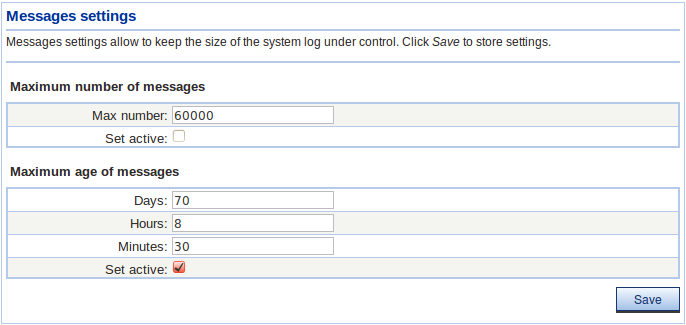
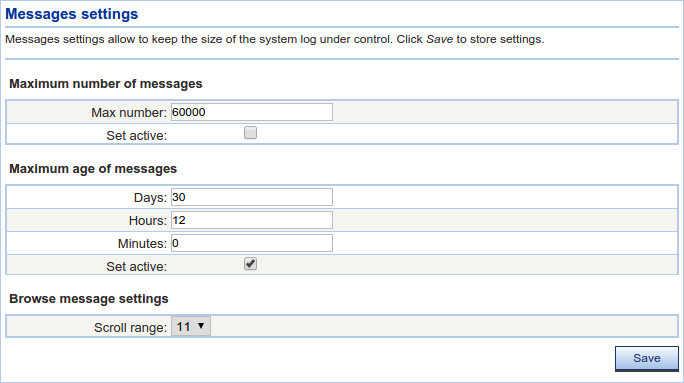
Ticket 393: Browsing more than 1000 pages of system messages difficult

Changed region(s): [[0.0, 0.0, 1.0, 1.0]]

diff --git a/src/java/eu/baltrad/dex/log/controller/BrowseMessagesController.java b/src/java/eu/baltrad/dex/log/controller/BrowseMessagesController.java
@@ -21,6 +21,8 @@
 
 package eu.baltrad.dex.log.controller;
 
+import eu.baltrad.dex.config.manager.impl.ConfigurationManager;
+import eu.baltrad.dex.config.model.LogConfiguration;
 import eu.baltrad.dex.log.manager.impl.LogManager;
 import eu.baltrad.dex.log.model.impl.LogEntry;
 import eu.baltrad.dex.log.model.impl.LogParameter;
@@ -51,6 +53,7 @@ public class BrowseMessagesController {
     public final static int ENTRIES_PER_PAGE = 20;
     /** Number of pages in the scroll bar, must be an odd number >= 3 */
     public final static int SCROLL_RANGE = 11;
+    
     /** Drop down lists */ 
     private static final String[] LEVELS = {"INFO", "WARN", "ERROR"};
     private static final String[] LOGGERS = {"DEX", "BEAST", "PGF"};
@@ -66,6 +69,7 @@ public class BrowseMessagesController {
     private static final String CURRENT_PAGE_KEY = "current_page";
     
     private LogManager logManager;
+    private ConfigurationManager configManager;
     
     /** Current page number */
     private static int currentPage;
@@ -240,28 +244,41 @@ public class BrowseMessagesController {
         if ((numPages * ENTRIES_PER_PAGE) < numEntries) {
             ++numPages;
         }
+        int scrollRange = getMessageBrowserScrollRange();
         if (numPages < 1) {
             numPages = 1;
         }
         int curPage = getCurrentPage();
-        int scrollStart = (SCROLL_RANGE - 1) / 2;
+        int scrollStart = (scrollRange - 1) / 2;
         int firstPage = 1;
-        int lastPage = SCROLL_RANGE;
-        if (numPages <= SCROLL_RANGE && curPage <= SCROLL_RANGE) {
+        int lastPage = scrollRange;
+        if (numPages <= scrollRange && curPage <= scrollRange) {
             firstPage = 1;
             lastPage = numPages;
         }
-        if (numPages > SCROLL_RANGE && curPage > scrollStart 
+        if (numPages > scrollRange && curPage > scrollStart 
                 && curPage < numPages - scrollStart) {
             firstPage = curPage - scrollStart;
             lastPage = curPage + scrollStart;
         }
-        if (numPages > SCROLL_RANGE && curPage > scrollStart 
-                && curPage >= numPages - (SCROLL_RANGE - 1)) {
-            firstPage = numPages - (SCROLL_RANGE - 1);
+        if (numPages > scrollRange && curPage > scrollStart 
+                && curPage >= numPages - (scrollRange - 1)) {
+            firstPage = numPages - (scrollRange - 1);
             lastPage = numPages;
         }
         return new int[] {firstPage, lastPage, curPage};
+    }
+    
+    public int getMessageBrowserScrollRange() {
+      LogConfiguration conf = configManager.getLogConf();
+      if (conf != null) {
+        try {
+          return Integer.parseInt(conf.getMessageBrowserScrollRange());
+        } catch (Exception e) {
+          // pass
+        }
+      }
+      return SCROLL_RANGE;
     }
     
     /**
@@ -333,4 +350,11 @@ public class BrowseMessagesController {
         this.logManager = logManager;
     }
     
+    /**
+     * @param configManager the configManager to set
+     */
+    @Autowired
+    public void setConfigManager(ConfigurationManager configManager) {
+        this.configManager = configManager;
+    }
 }

diff --git a/src/java/eu/baltrad/dex/config/model/LogConfiguration.java b/src/java/eu/baltrad/dex/config/model/LogConfiguration.java
@@ -38,7 +38,8 @@ public class LogConfiguration {
     public static final String MAX_DAYS = "messages.max_age_days";
     public static final String MAX_HOURS = "messages.max_age_hours";
     public static final String MAX_MINUTES = "messages.max_age_minutes";
-    
+    public static final String MESSAGE_BROWSER_SCROLL_RANGE = "messages.browser.scroll.range";
+
     /** Trim by number toggle */
     private String msgTrimByNumber;
     /** Trim by age toggle */
@@ -51,6 +52,8 @@ public class LogConfiguration {
     private String msgMaxAgeHours;
     /** Age limit - number of minutes */
     private String msgMaxAgeMinutes;
+    /** Scroll range in the messages browser window */
+    private String messageBrowserScrollRange = "11";
 
     /**
      * Constructor.
@@ -68,6 +71,7 @@ public class LogConfiguration {
         this.msgMaxAgeDays = props.getProperty(MAX_DAYS);
         this.msgMaxAgeHours = props.getProperty(MAX_HOURS);
         this.msgMaxAgeMinutes = props.getProperty(MAX_MINUTES);
+        this.setMessageBrowserScrollRange(props.getProperty(MESSAGE_BROWSER_SCROLL_RANGE, "11"));
     }
     
     /**
@@ -93,7 +97,9 @@ public class LogConfiguration {
                 this.getMsgMaxAgeHours() != null && 
                 this.getMsgMaxAgeHours().equals(conf.getMsgMaxAgeHours()) &&
                 this.getMsgMaxAgeMinutes() != null &&
-                this.getMsgMaxAgeMinutes().equals(conf.getMsgMaxAgeMinutes());
+                this.getMsgMaxAgeMinutes().equals(conf.getMsgMaxAgeMinutes()) &&
+                this.getMessageBrowserScrollRange() != null &&
+                this.getMessageBrowserScrollRange().equals(conf.getMessageBrowserScrollRange());
     }
     
     /**
@@ -116,6 +122,9 @@ public class LogConfiguration {
                 0 : this.getMsgMaxAgeHours().hashCode());
         result = prime * result + (this.getMsgMaxAgeMinutes() == null ? 
                 0 : this.getMsgMaxAgeMinutes().hashCode());
+        result = prime * result + ((this.getMessageBrowserScrollRange() == null) ?
+            0 : this.getMessageBrowserScrollRange().hashCode());
+        
         return result;
     }
 
@@ -202,5 +211,13 @@ public class LogConfiguration {
     public void setMsgMaxAgeMinutes(String msgMaxAgeMinutes) {
         this.msgMaxAgeMinutes = msgMaxAgeMinutes;
     }
-    
+
+    public String getMessageBrowserScrollRange() {
+      return messageBrowserScrollRange;
+    }
+
+    public void setMessageBrowserScrollRange(String messageBrowserScrollRange) {
+      this.messageBrowserScrollRange = messageBrowserScrollRange;
+    }
+  
 }

diff --git a/src/java/eu/baltrad/dex/config/manager/impl/ConfigurationManager.java b/src/java/eu/baltrad/dex/config/manager/impl/ConfigurationManager.java
@@ -258,6 +258,10 @@ public class ConfigurationManager implements IConfigurationManager,
                     conf.getMsgMaxAgeHours());
             props.setProperty(LogConfiguration.MAX_MINUTES, 
                     conf.getMsgMaxAgeMinutes());
+            props.setProperty(LogConfiguration.MESSAGE_BROWSER_SCROLL_RANGE,
+                conf.getMessageBrowserScrollRange() == null ?
+                    props.getProperty(LogConfiguration.MESSAGE_BROWSER_SCROLL_RANGE)
+                    : conf.getMessageBrowserScrollRange());
             saveProperties(props);
             this.logConf = new LogConfiguration(props);
         } catch( Exception e ) {

diff --git a/src/java/eu/baltrad/dex/config/controller/MessagesConfigurationController.java b/src/java/eu/baltrad/dex/config/controller/MessagesConfigurationController.java
@@ -21,6 +21,9 @@
 
 package eu.baltrad.dex.config.controller;
 
+import java.util.Arrays;
+import java.util.List;
+
 import eu.baltrad.dex.config.model.LogConfiguration;
 import eu.baltrad.dex.config.manager.impl.ConfigurationManager;
 import eu.baltrad.dex.config.validator.MessagesConfigurationValidator;
@@ -136,6 +139,11 @@ public class MessagesConfigurationController {
         return FORM_VIEW;
     }
 
+    @ModelAttribute("scroll_ranges")
+    public List<String> getNodeTypes() {
+        return Arrays.asList(new String[]{"5","7","9","11"});
+    }
+    
     /**
      * @param configManager the configManager to set
      */

diff --git a/src/java/eu/baltrad/dex/config/model/AppConfiguration.java b/src/java/eu/baltrad/dex/config/model/AppConfiguration.java
@@ -415,6 +415,5 @@ public class AppConfiguration {
     public void setConnTimeout(String connTimeout) {
         this.connTimeout = connTimeout;
     }
-  
 }
 
